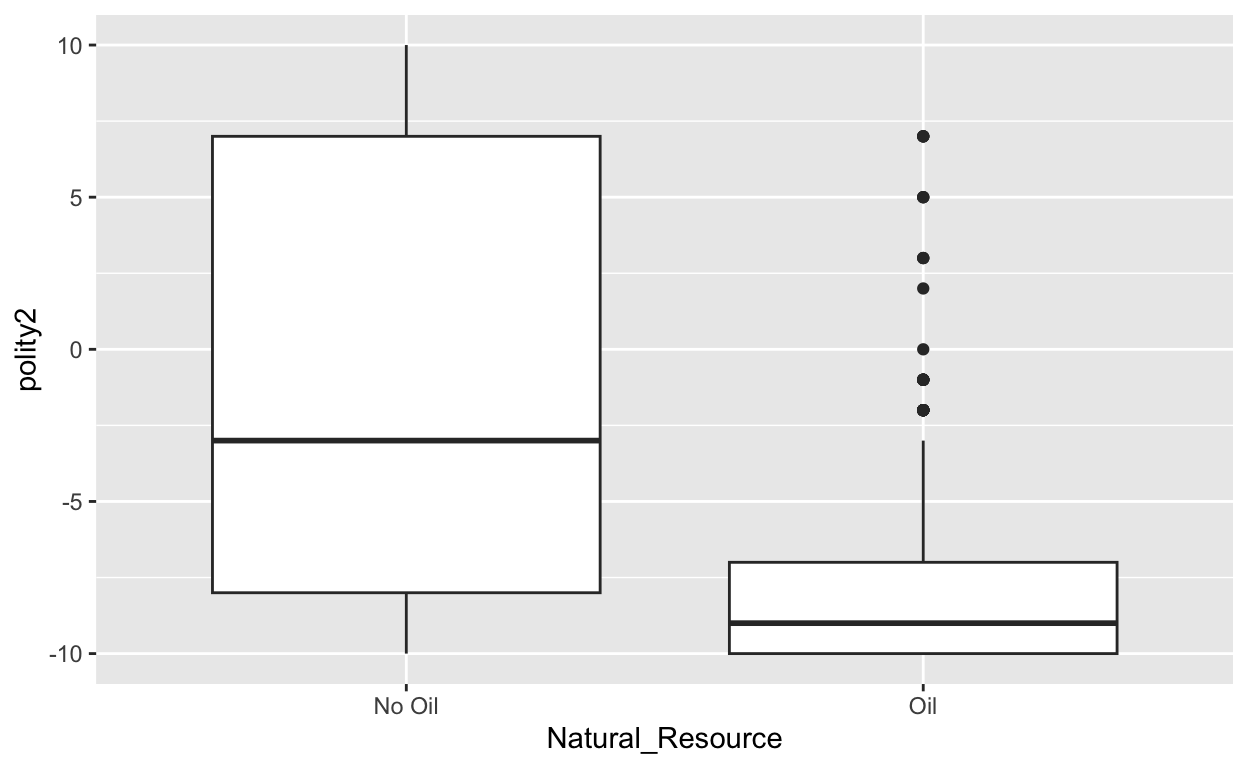
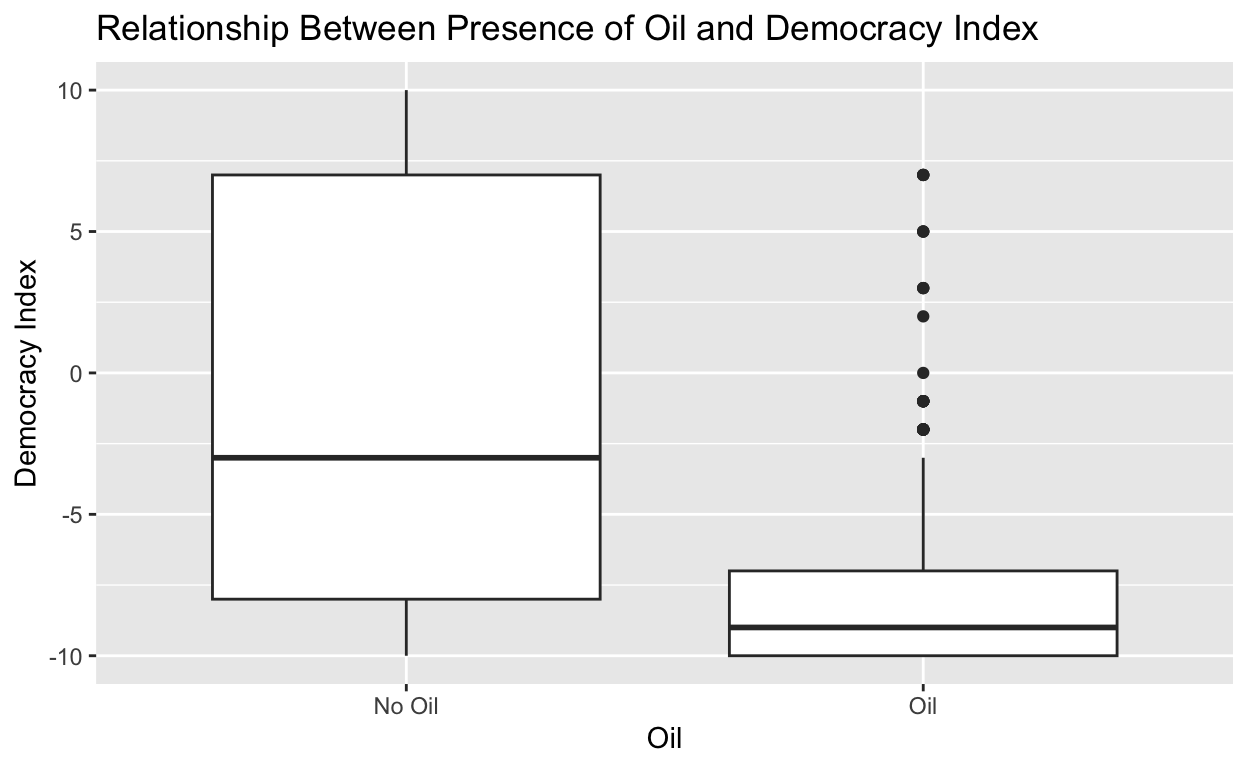
push html

diff --git a/index.html b/index.html
@@ -1518,7 +1518,7 @@ code span.wa { color: #5e5e5e; font-style: italic; } /* Warning */
 
 <div class="d-article">
 <h2 id="introduction">Introduction</h2>
-<p>I want to understand how different kinds of factors impact the likeliness of a country experiencing a civil war at least once in a lifetime. The concept of authoritarian regimes is extremely interesting because different democratization levels are usually dependent on certain factors like strength of military, freedom of speech, and natural resource revenue. If I can focus on some of these factors for my project, it would be very interesting.For my project, I want to find the correlation between polity (levels of democracy), population, and oil. I want to study how countries in the Middle East and North African (MENA) are likely to have high or low democracy levels by analyzing the relationship between population, and natural resource presence.</p>
+<p>I want to understand how different kinds of factors impact different levels of democracy. The concept of authoritarian regimes is extremely interesting because different democratization levels are usually dependent on certain factors like strength of military, freedom of speech, and natural resource revenue. If I can focus on some of these factors for my project, it would be very interesting.For my project, I want to find the correlation between polity (levels of democracy), population, and oil. I want to study how countries in the Middle East and North African (MENA) are likely to have high or low democracy levels by analyzing the relationship between population, and natural resource presence.</p>
 <p>My main hypothesis predicts that Middle Eastern/ North African countries with higher populations and more natural resources have lower levels of democracy. I am hypothesizing based off of prior knowledge of how authoritarian regimes in the Middle East and North Africa are structured. It is important to analyze this because many MENA countries live under very repressive regimes that restrict democracy and freedom. Analyzing these different factors will help us create understanding of how natural resources bring in revenue and support higher populations of people, so regimes can use their funds to keep their residents happy. Therefore, they are free to increase repression and decrease democratic freedom because the residents are reaping economic benefits.</p>
 <h2 id="data-section">Data Section</h2>
 <p>The data set titled, “civil war” includes all countries and a variety of factors including religion, population, oil, presence of civil war in history, etc. However, I am solely focused on Middle East/North African countries and oil, population, and polity as factors. I am choosing the MENA region as my focus because they are petrol states with high incomes and tend to have lower levels of democracy.</p>
@@ -1562,7 +1562,7 @@ code span.wa { color: #5e5e5e; font-style: italic; } /* Warning */
 </div>
 <p><img src="index_files/figure-html5/unnamed-chunk-3-1.png" width="624" /></p>
 </div>
-<p>A lot of volatility in the levels of democracy across the different countries in the MENA region. Although there isn’t a clear relationship, this graph intends to visualize the MENA countries’ democracy levels over the years (until 2000). However, by just looking at the graph, we can see that most countries skew on the lower end of the Democracy Index spectrum. Meaning, most countries have low levels of democracy towards the beginning and the end of the graph. For instance, Turkey had a massive shift in democracy levels in about 1975 when it experiences a drop in drmocracy levels, but then it steadily increased to an all-time high from the 1980s onward.</p>
+<p>There seems to be a lot of volatility in the levels of democracy across the different countries in the MENA region. Although there isn’t a clear relationship, this graph intends to visualize the MENA countries’ democracy levels over the years (until 2000). However, by just looking at the graph, we can see that most countries skew on the lower end of the Democracy Index spectrum. Meaning, most countries have low levels of democracy towards the beginning and the end of the graph. For instance, Turkey had a massive shift in democracy levels in about 1975 when it experiences a drop in democracy levels, but then it steadily increased to an all-time high from the 1980s onward.</p>
 <h2 id="results">Results</h2>
 <div class="layout-chunk" data-layout="l-body">
 <div class="sourceCode">
@@ -1577,7 +1577,7 @@ code span.wa { color: #5e5e5e; font-style: italic; } /* Warning */
 </div>
 <p><img src="index_files/figure-html5/unnamed-chunk-4-1.png" width="624" /></p>
 </div>
-<p>The scatter plot above demonstrates the relationship between population and levels of democracy as well. After analyzing the data, there isn’t a very clear correlation but, there seems to be a positive correlation between population and the democracy index. There is a negative relationship for populations that have about 10,000 people and after they have reached over 10,000 people there is more of a positive relationship and the democracy index goes up. At first, we can see having a larger population doesn’t equate to a more democratic society, but after 10,000 people there seems to be more democracy.</p>
+<p>The scatter plot above demonstrates the relationship between population and levels of democracy as well. After analyzing the data, there isn’t a very clear and strong correlation yet, there seems to be a positive correlation between population and the democracy index. There is a negative relationship for populations that have about 10,000 people and after they have reached over 10,000 people there is more of a positive relationship and the democracy index goes up. At first, we can see having a larger population doesn’t equate to a more democratic society, but after 10,000 people there seems to be more democracy.</p>
 <div class="layout-chunk" data-layout="l-body">
 <div class="sourceCode">
 <pre class="sourceCode r"><code class="sourceCode r"><span><span class='kw'><a href='https://rdrr.io/r/base/library.html'>library</a></span><span class='op'>(</span><span class='va'><a href='https://broom.tidymodels.org/'>broom</a></span><span class='op'>)</span></span>
@@ -1622,8 +1622,8 @@ code span.wa { color: #5e5e5e; font-style: italic; } /* Warning */
 </tbody>
 </table>
 </div>
-<p>The linear regression above represents the coefficients of oil, natural resource, and population. For the population, the number is extremely small and close to 0 so if we were to round, the number would be zero. However, when looking at how much difference one single person would make, it isn’t very significant compared to say, 1,000 people. When interpreting that coefficient, we can understand that for every 1 person, there is a 0.0000052 unit increase in democracy levels.</p>
-<p>Additionally, oil, the coefficient is -6.428115 which means that for every 1 unit of oil, there is a decrease of -6.428116 units on democracy levels. Moreover, if a country were to go from being a country with oil to no oil, then it would impact the polity score with an average of -6.428.</p>
+<p>The linear regression above represents the coefficients of oil, democracy, and population. For the population, the number is extremely small and close to 0 so if we were to round, the number would be zero. However, when looking at how much difference one single person would make, it isn’t very significant compared to say, 1,000 people. When interpreting that coefficient, we can understand that for every 1 person, there is a 0.0000052 unit increase in democracy levels.</p>
+<p>Additionally, the for oil coefficient is -6.428115 which means that for every 1 unit of oil, there is a decrease of -6.428115 units on democracy levels. Moreover, if a country were to go from being a country with oil to no oil, then it would impact the polity score with an average of -6.428115.</p>
 <p>The p-value is less than 0.05 which means that the results from the linear regression table are statistically significant. Under the alpha of 0.05, we can reject the null hypothesis that there is no correlation between polity and natural resou</p>
 <p>The intercept in the table is -1.674970 which represents the case if there was a population of 0 people, the polity score would be -1.675.</p>
 <div class="layout-chunk" data-layout="l-body">
@@ -1669,9 +1669,9 @@ code span.wa { color: #5e5e5e; font-style: italic; } /* Warning */
 <p>There is a positive relationship between population and democracy index because the correlation coefficient is 0.0977. When comparing it to the linear regression coefficient of 0.000052, it is also pretty weak. This may be due to the fact that country populations tend to be extremely large, so if the population is only increasing by 1 person at a time, we can’t expect it to have a significant impact on the democracy levels. However, if the number of poeple were to be increasing at a much larger scale, then it could have a larger significance.</p>
 <p>There is a negative relationship between and wether or not a country has oil and its democracy index. The correlation coefficient is -0.4961 and when compared to the linear regression coefficient of -6.428115, it shows a similar trend. Countries with oil tend to have much lower levels of democracy.</p>
 <h2 id="conclusion">Conclusion</h2>
-<p>After analyzing the civilwar data set and creating visuals, we can conclude that countries with higher populations and oil are less likely to be democratic. These findings directly support my hypothesis because countries with higher democracy levels of democracy had lower populations and were less likely to have oil. There was a positive correlation coefficient relationship between population and democracy index although it was pretty weak. However, there was a negative correlation coefficient relationship between oil and democracy. Therefore, I found full support for my hypothesis throughout my report. Reflecting on my final project and all of my milestones, I am pleased with the results of my study and I have a lot of passion for politics in the MENA region so I am glad I was able to study it further through this course.</p>
-<p>However, there are some limitations to this study and this data set. For instance, I had originally wanted my output variable to be the likelihood of a country experiencing a civil war at least once in their history. However, the war variable was a binary variable which would have been difficult to incorporate into a linear regression table. So, I had to switch my output variable and scope of the research.</p>
-<p>If the dataset had allowed, I would have loved to look into other factors that could contribute to democracy levels. I chose the best variables with the available data I had, but some of them don’t fully encompass democracy levels. Although oil is a good variable, there are more explanatory variables that could provide a clearer correlation such as wealth, political freedom, etc.</p>
+<p>After analyzing the civilwar data set and creating visuals, we can conclude that countries with higher populations and oil are less likely to be democratic. These findings directly support my hypothesis because countries with higher democracy levels of democracy had lower populations and were less likely to have oil. There was a positive correlation coefficient relationship between population and democracy index although it was pretty weak. However, there was a negative correlation coefficient relationship between oil and democracy. Therefore, I found full support for my hypothesis throughout my report and I am confident that there is a correlation between polity score, population size, and presence of oil. Reflecting on my final project and all of my milestones, I am pleased with the results of my study and I have a lot of passion for politics in the MENA region so I am glad I was able to study it further through this course.</p>
+<p>However, there are some limitations to this study and this data set. For instance, I had originally wanted my output variable to be the likelihood of a country experiencing a civil war at least once in their history. However, the war variable was a binary variable which would have been difficult to incorporate into a linear regression table. So, I had to switch my output variable and scope of the research while incorporating the same contributing variables.</p>
+<p>If the data set had allowed, I would have loved to look into other factors that could contribute to democracy levels. I chose the best variables with the available data I had, but some of them don’t fully encompass the best possible measures to track democracy levels. Although oil is a good variable, there are more explanatory variables that could provide a clearer correlation such as wealth, political freedom, civil society participation, presence of non-governmental organizations, etc.</p>
 <div class="sourceCode" id="cb1"><pre class="sourceCode r distill-force-highlighting-css"><code class="sourceCode r"></code></pre></div>
 <!--radix_placeholder_article_footer-->
 <!--/radix_placeholder_article_footer-->
